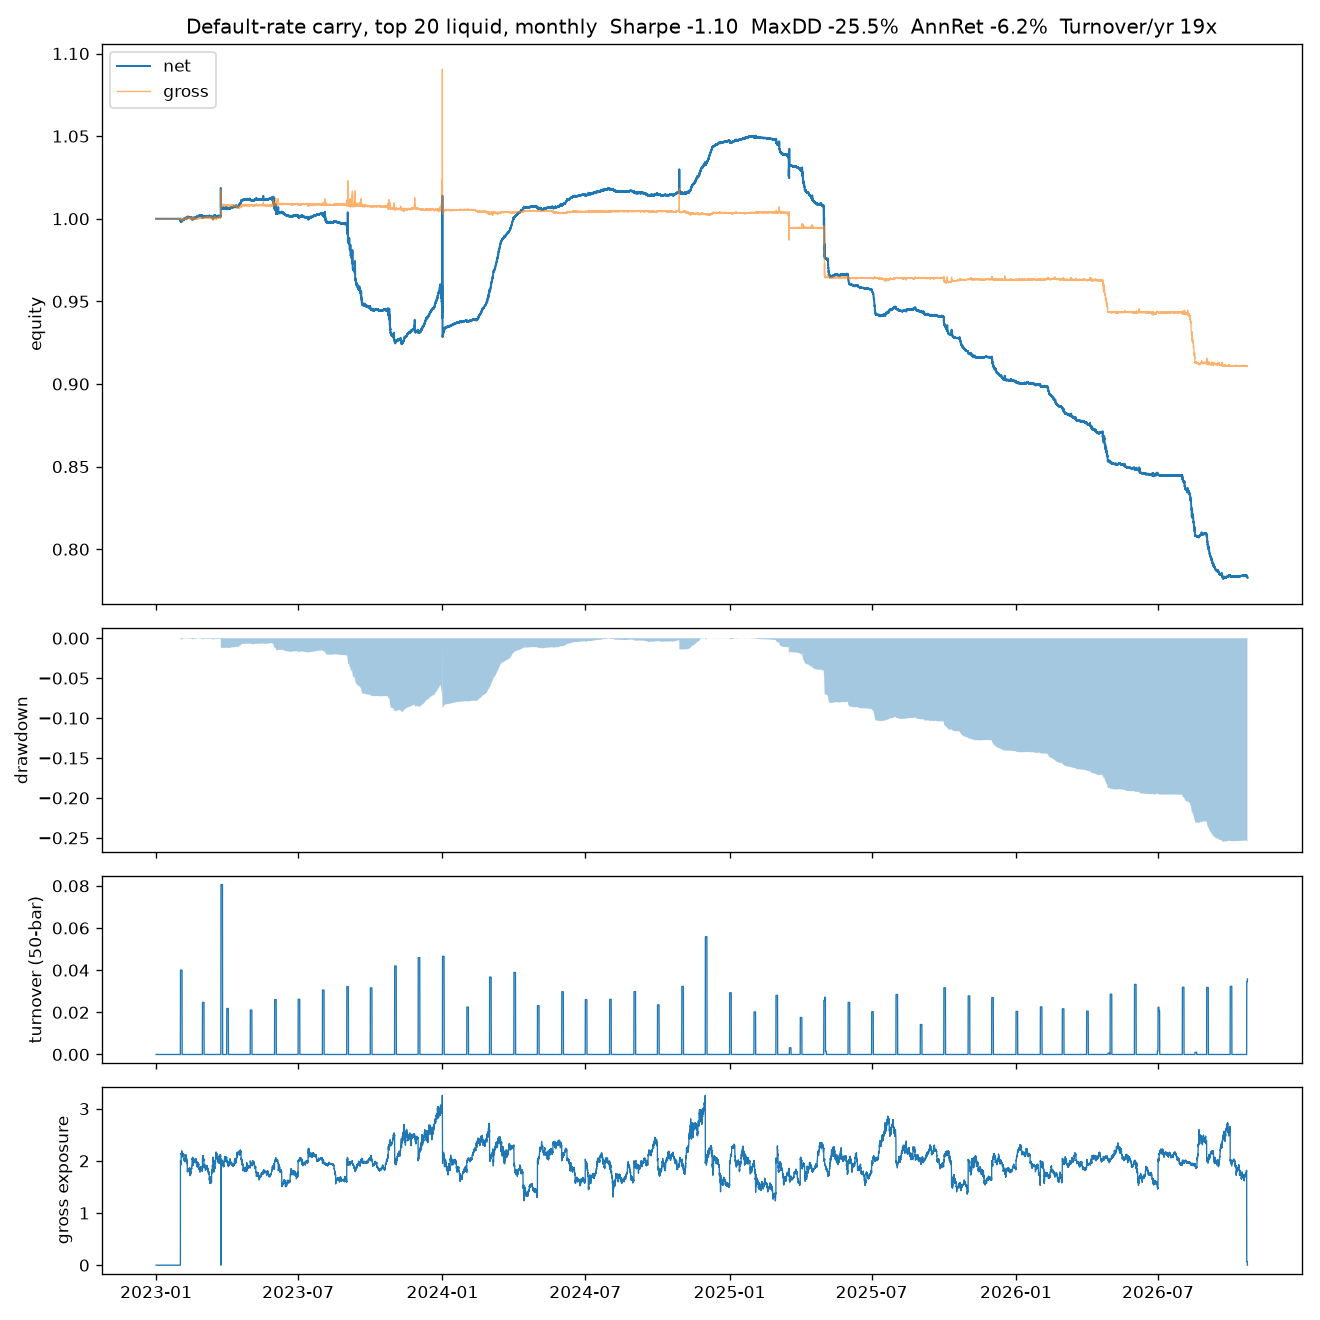
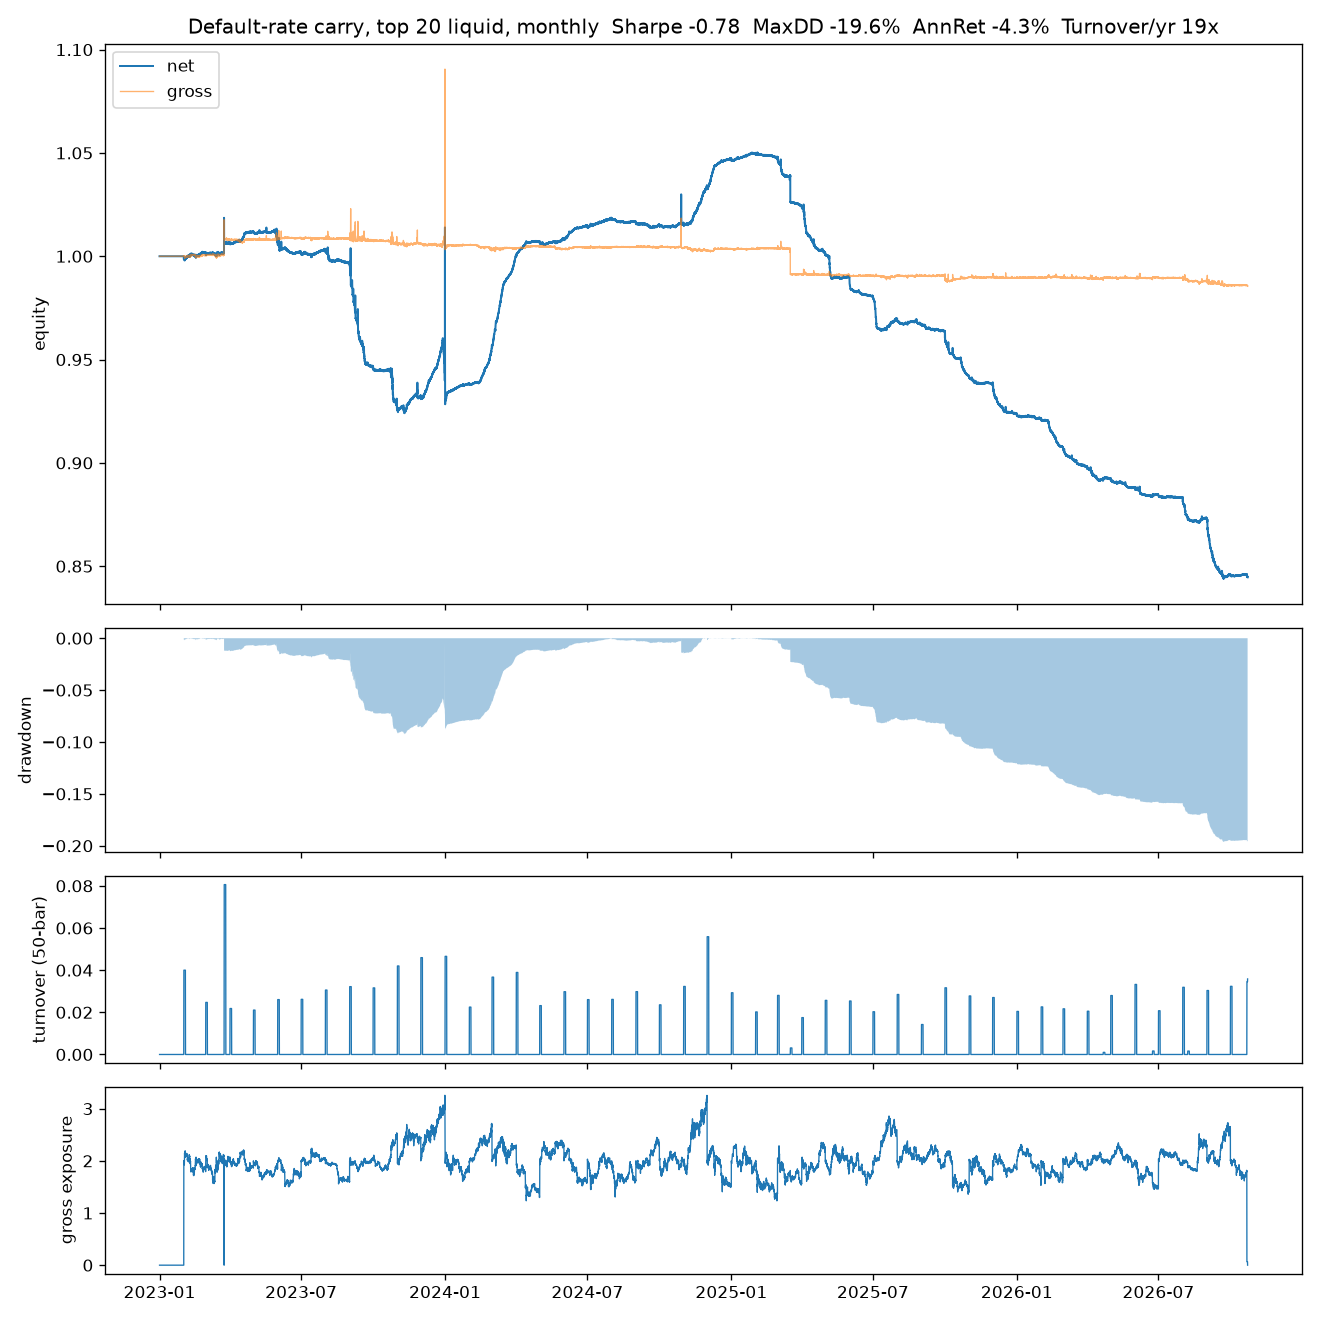
Cut perp prices at delisting; update default-carry results
Binance serves perp klines after a contract is delisted, with a frozen
close, so the backtester (which force-closes on NaN) never saw delistings:
a hedged position kept a frozen perp against live spot. Perp prices are
now cut at each contract's deliveryDate (delisting_times, cached) in
load_kline_matrix and run_carry.load.

Default-rate carry, full sample: -6.2% -> -4.3%/yr, Sharpe -1.10 -> -0.78;
~4 pts/yr of 2025-26 'basis loss' was the frozen-perp artefact. Funding
figures and the volume-bucket study are unchanged. Rotation rerun pending.

diff --git a/qr/data/prices.py b/qr/data/prices.py
@@ -30,10 +30,30 @@ def _one(base: str, market: str, start: str, end: str, interval: str) -> pd.Data
     return df[~df.index.duplicated(keep="last")][[c for c in COLUMNS if c in df.columns]]
 
 
+def mask_delisted(m: pd.DataFrame, times: dict[str, pd.Timestamp]) -> pd.DataFrame:
+    """NaN from each base's delisting time on. Binance serves frozen perp klines after delisting;
+    the backtester force-closes on NaN, so this is what makes a delisting visible to it."""
+    m = m.copy()
+    for b, t in times.items():
+        if b in m.columns:
+            m.loc[m.index >= t, b] = float("nan")
+    return m
+
+
 def load_kline_matrix(bases: list[str], market: str, col: str, start: str, end: str,
                       interval: str = "1h", cache: bool = True) -> pd.DataFrame:
     """market = 'PERP' or 'SPOT'. Columns of the result = bases that have data. Cache is rebuilt
-    if it lacks a requested base that has data on disk; delete the files after a new download."""
+    if it lacks a requested base that has data on disk; delete the files after a new download.
+    PERP matrices are cut at each contract's delisting time (see mask_delisted)."""
+    m = _load_kline_matrix(bases, market, col, start, end, interval, cache)
+    if market == "PERP":
+        from qr.data.history import delisting_times
+        m = mask_delisted(m, delisting_times())
+    return m
+
+
+def _load_kline_matrix(bases: list[str], market: str, col: str, start: str, end: str,
+                       interval: str, cache: bool) -> pd.DataFrame:
     path = _path(market, col, start, end, interval)
     if cache and path.exists():
         df = pd.read_parquet(path)

diff --git a/qr/data/history.py b/qr/data/history.py
@@ -59,6 +59,24 @@ def list_symbols(include_delisted: bool = True) -> pd.DataFrame:
     return pd.DataFrame(rows)
 
 
+def delisting_times(cache: bool = True) -> dict[str, pd.Timestamp]:
+    """Base -> delisting time (deliveryDate) for every delisted USDT perp. Binance keeps serving
+    perp klines after delisting with a frozen close, so loaders must cut perp prices here, or the
+    backtester (which force-closes on NaN) never sees the delisting. Cached as JSON."""
+    import json
+    from qr.data.store import ROOT
+    path = ROOT / "processed" / "binance" / "delistings.json"
+    if cache and path.exists():
+        return {k: pd.Timestamp(v) for k, v in json.load(open(path)).items()}
+    df = list_symbols(include_delisted=True)
+    dead = df[(df["status"] != "TRADING") & df["delivery"].notna()
+              & (df["delivery"] < pd.Timestamp.now(tz="UTC"))]
+    out = dict(zip(dead["base"], dead["delivery"]))
+    path.parent.mkdir(parents=True, exist_ok=True)
+    json.dump({k: v.isoformat() for k, v in out.items()}, open(path, "w"), indent=0)
+    return out
+
+
 def all_perp_bases(onboarded_before: str | None = None) -> list[str]:
     """Every USDT perp Binance has listed, delisted ones included (status != TRADING), so the
     universe is not selected on survival. Optionally keep only contracts listed before a date."""

diff --git a/tests/test_delisting.py b/tests/test_delisting.py
@@ -1,0 +1,23 @@
+import numpy as np
+import pandas as pd
+
+from qr.backtest.engine import run
+from qr.data.prices import mask_delisted
+
+
+def test_frozen_perp_after_delisting_is_cut_and_force_closed():
+    idx = pd.date_range("2025-01-01", periods=10, freq="h", tz="UTC")
+    perp = pd.DataFrame({"X": [10, 10.5, 11, 11, 11, 11, 11, 11, 11, 11.0]}, index=idx)   # frozen from bar 3
+    spot = pd.DataFrame({"X": [10, 10.5, 11, 12, 13, 14, 15, 16, 17, 18.0]}, index=idx)   # spot keeps trading
+    cut = mask_delisted(perp, {"X": idx[3]})
+    assert cut["X"].iloc[:3].notna().all() and cut["X"].iloc[3:].isna().all()
+
+    prices = pd.DataFrame({"X-SPOT": spot["X"], "X-PERP": cut["X"]})
+    both = prices.notna().all(axis=1)
+    w = pd.DataFrame({"X-SPOT": 0.5, "X-PERP": -0.5}, index=idx).where(both, 0.0)   # hedged book exits both legs
+    res = run(prices, w, fee_bps=0, slippage_bps=0)
+    assert (res.weights.iloc[3:] == 0).all().all()
+    # without the cut, the frozen perp leaves the spot leg unhedged and the book books spot's rally
+    w_frozen = pd.DataFrame({"X-SPOT": 0.5, "X-PERP": -0.5}, index=idx)
+    res_frozen = run(pd.DataFrame({"X-SPOT": spot["X"], "X-PERP": perp["X"]}), w_frozen, fee_bps=0, slippage_bps=0)
+    assert res_frozen.equity.iloc[-1] > res.equity.iloc[-1] + 0.1

diff --git a/scripts/run_carry.py b/scripts/run_carry.py
@@ -18,6 +18,7 @@ import pandas as pd
 
 from qr.backtest.engine import run
 from qr.backtest.report import tearsheet
+from qr.data.history import delisting_times
 from qr.data.store import read_range
 from qr.strategies.carry import CarryParams, build_weights, implied_leverage, run_with_risk
 from qr.validation import deflated_sharpe
@@ -26,10 +27,15 @@ OUT = Path("reports/carry")
 OUT.mkdir(parents=True, exist_ok=True)
 
 
+DELISTED = delisting_times()
+
+
 def load(bases: list[str], start: str, end: str):
     closes, fund, dvol = {}, {}, {}
     for b in bases:
         kp = read_range("raw", "binance", "klines_1h", f"{b}-PERP", start, end)
+        if b in DELISTED and not kp.empty:                 # frozen klines after delisting: cut them
+            kp = kp[kp.index < DELISTED[b]]
         ks = read_range("raw", "binance", "klines_1h", f"{b}-SPOT", start, end)
         f = read_range("raw", "binance", "funding", f"{b}-PERP", start, end)
         if kp.empty or f.empty:

diff --git a/notes/01_carry.md b/notes/01_carry.md
@@ -2,7 +2,7 @@
 
 *The first of a planned set of notes on Binance perps. It tests the simplest delta-neutral carry book before anything is built on top of it, and it rules it out.*
 
-**One line:** hedged funding carry (long spot / short perp) on Binance does not pay after costs in 2023–26: rotating into high-funding coins spends the income on turnover, holding liquid coins at the default rate loses −6.2% a year because below-default funding outweighs it, and the above-default spells that funded the trade in 2023–24 became about 20× rarer in 2025–26, with the most liquid coins hit hardest.
+**One line:** hedged funding carry (long spot / short perp) on Binance does not pay after costs in 2023–26: rotating into high-funding coins spends the income on turnover, holding liquid coins at the default rate loses −4.3% a year because below-default funding outweighs it, and the above-default spells that funded the trade in 2023–24 became about 20× rarer in 2025–26, with the most liquid coins hit hardest.
 
 ## Hypothesis
 When leveraged longs crowd a perp, it trades above spot and longs pay shorts funding. A short perp hedged with long spot collects that funding without directional exposure. The edge is a premium for taking the other side of leverage demand, so it should exist only while that demand outweighs the capital willing to supply it.
@@ -14,6 +14,7 @@ Binance's funding has a floor-like default: an interest component of 0.01% per 8
 - Universe: every USDT perp Binance has listed (655, including 133 delisted). 447 have a spot market and so can be hedged; 89 of those are delisted contracts (FTT, FTM, WAVES, MKR, OCEAN, AGIX, …), so the sample includes the casualties. Perp-only coins are excluded from every hedged study.
 - Settlement intervals differ: at the end of the sample 509 coins settle every 4h, 134 every 8h, 12 every 1–2h, and 169 dropped to 1h at some point (Binance does this when funding is at its cap). All funding is put on fixed 8h UTC windows by summing the settlements inside each window (`qr/data/funding.py`); the default is 0.01% per 8h window at every interval (0.005% per 4h settlement, 0.00125% per 1h).
 - Liquidity is point in time: trailing 30-day perp dollar volume on completed bars only.
+- Binance keeps serving perp klines after a contract is delisted, with a frozen close. Perp prices are cut at each contract's delisting time (Binance's `deliveryDate`, 134 contracts), so a delisting force-closes the position in the backtester instead of leaving a frozen perp hedged against live spot.
 
 ## Method
 Three studies, each answering one question:
@@ -52,15 +53,15 @@ An earlier rotation backtest (top 10 by trailing funding, re-ranked every 8h) re
 
 | | 2023–24 | 2025–26 | Full |
 | --- | --- | --- | --- |
-| Ann. return (net) | +2.3% | −14.9% | −6.2% |
-| Ann. vol | 7.3% | 3.1% | 5.7% |
-| Sharpe | 0.35 | −5.16 | −1.10 |
-| Max drawdown | −9.3% | −25.5% | −25.5% |
-| Price / basis PnL / yr | +0.5% | −5.3% | −2.3% |
-| Funding / yr | +3.5% | −9.6% | −2.7% |
+| Ann. return (net) | +2.3% | −11.2% | −4.3% |
+| Ann. vol | 7.3% | 2.0% | 5.5% |
+| Sharpe | 0.35 | −5.99 | −0.78 |
+| Max drawdown | −9.3% | −19.7% | −19.7% |
+| Price / basis PnL / yr | +0.5% | −1.0% | −0.2% |
+| Funding / yr | +3.5% | −9.7% | −2.8% |
 | from settlements at default | +4.7% | +3.4% | +4.1% |
-| from settlements above default | +7.7% | +0.4% | +4.3% |
-| from settlements below default | −8.9% | −13.3% | −11.0% |
+| from settlements above default | +7.7% | +0.3% | +4.2% |
+| from settlements below default | −8.9% | −13.4% | −11.0% |
 | Costs / yr | −1.4% | −1.2% | −1.3% |
 | Turnover / yr | 20× | 17× | 19× |
 
